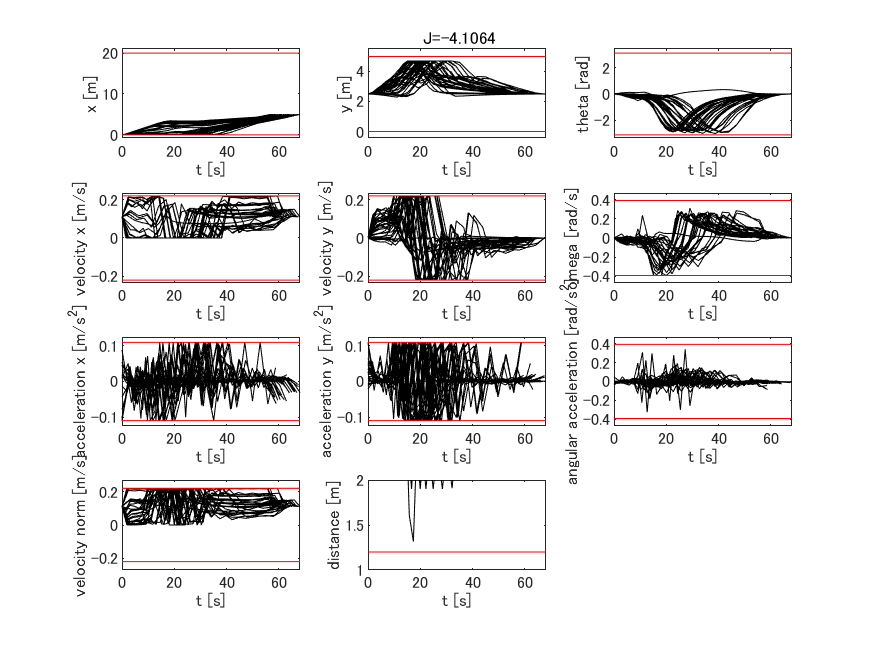
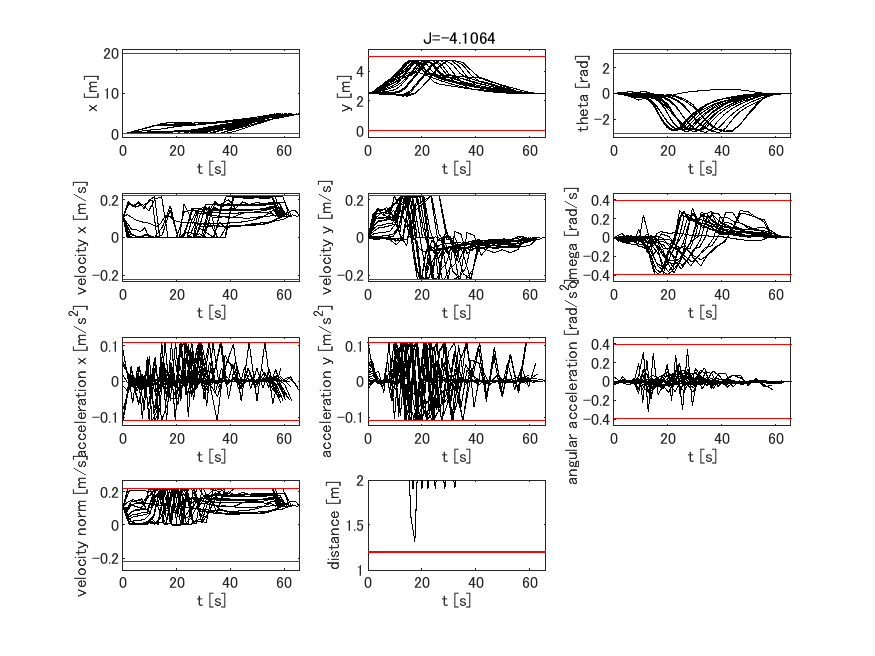
AutoPush

diff --git a/matlab_ws/230204/MAIN.m b/matlab_ws/230204/MAIN.m
@@ -1,7 +1,7 @@
 clc;clear;
-res=MAIN_func();
 % res=MAIN_func();
-% res=MAIN_func_iter0204();
+% res=MAIN_func();
+res=MAIN_func_iter0207();
 % res=MAIN_func_iter0122_remote();
 % res=MAIN_func_iter_rapid();
 % result_gather();